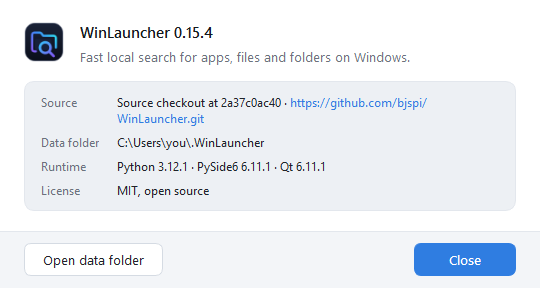
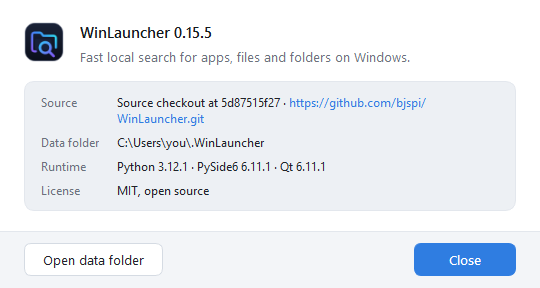
Release 0.15.5: add branded Rust host and Start-menu integration

Changed region(s): [[0.3852, 0.3438, 0.8, 0.375], [0.3556, 0.0938, 0.4148, 0.125]]

diff --git a/winlauncher/platform/startup.py b/winlauncher/platform/startup.py
@@ -1,4 +1,4 @@
-"""Manage WinLauncher's per-user Windows Startup shortcut.
+"""Manage WinLauncher's per-user Windows Startup and Start-menu shortcuts.
 
 The shortcut file itself is the source of truth. WinLauncher only ever changes a
 shortcut it recognizes as its own and refuses to touch an unrelated one.
@@ -29,6 +29,7 @@ from winlauncher.platform.shortcuts import load_shortcut, write_target_shortcut
 
 SHORTCUT_NAME = "WinLauncher.lnk"
 SHORTCUT_DESCRIPTION = "WinLauncher startup shortcut"
+START_MENU_DESCRIPTION = "WinLauncher application shortcut"
 MODULE_ARGUMENTS = ("-m", "winlauncher", "--background")
 
 _Result = TypeVar("_Result")
@@ -120,32 +121,57 @@ class StartupShortcut:
         return ShortcutState.OWNED if shortcut.owned else ShortcutState.UNRELATED
 
     def _write_shortcut(self, shortcut: _Shortcut | None = None) -> None:
-        """Save into a private temporary folder, then atomically replace the shortcut."""
-        path = self.path
-        path.parent.mkdir(parents=True, exist_ok=True)
-        with tempfile.TemporaryDirectory(prefix="winlauncher-", dir=path.parent) as folder:
-            temporary = Path(folder) / path.name
-            _with_shortcut(lambda: self._save_shortcut(temporary, shortcut))
-            os.replace(temporary, path)
-
-    def _save_shortcut(self, target: Path, saved: _Shortcut | None) -> None:
-        if saved is None:
+        if shortcut is None:
             command = self._launch_command()
-            saved = _Shortcut(
+            shortcut = _Shortcut(
                 command[0],
                 subprocess.list2cmdline(command[1:]),
                 SHORTCUT_DESCRIPTION,
                 str(PACKAGE_PARENT),
                 (command[0], 0),
             )
-        write_target_shortcut(
-            target,
-            saved.target,
-            saved.arguments,
-            icon=saved.icon,
-            description=saved.description,
-            working_directory=saved.directory,
-        )
+        _write_shortcut(self.path, shortcut)
+
+
+def install_start_menu_shortcut(host: Path) -> None:
+    """Keep a searchable launch command even when automatic startup is disabled."""
+    path = _user_programs_folder() / SHORTCUT_NAME
+    shortcut = _Shortcut(
+        str(host), "--show", START_MENU_DESCRIPTION, str(PACKAGE_PARENT), (str(host), 0)
+    )
+    if path.exists():
+        current = _with_shortcut(lambda: _read_shortcut(path))
+        if current.description != START_MENU_DESCRIPTION or Path(current.target) != host:
+            raise OSError(f"Refusing to change an unrelated shortcut: {path}")
+        if current == shortcut:
+            return
+    _write_shortcut(path, shortcut)
+
+
+def _write_shortcut(path: Path, shortcut: _Shortcut) -> None:
+    """Save privately, then atomically replace the shortcut; failures keep the original."""
+    path.parent.mkdir(parents=True, exist_ok=True)
+    with tempfile.TemporaryDirectory(prefix="winlauncher-", dir=path.parent) as folder:
+        temporary = Path(folder) / path.name
+        _with_shortcut(lambda: _save_shortcut(temporary, shortcut))
+        os.replace(temporary, path)
+
+
+def _save_shortcut(target: Path, shortcut: _Shortcut) -> None:
+    write_target_shortcut(
+        target,
+        shortcut.target,
+        shortcut.arguments,
+        icon=shortcut.icon,
+        description=shortcut.description,
+        working_directory=shortcut.directory,
+    )
+
+
+def _user_programs_folder() -> Path:
+    from win32comext.shell import shell, shellcon
+
+    return Path(shell.SHGetKnownFolderPath(shellcon.FOLDERID_Programs))
 
 
 def _user_startup_folder() -> Path:
@@ -182,6 +208,6 @@ def _call_shortcut(action: Callable[[], _Result]) -> _Result:
     try:
         return action()
     except pywintypes.com_error as exc:
-        message = f"Windows could not access the Startup shortcut: {exc.strerror}"
+        message = f"Windows could not access the shortcut: {exc.strerror}"
     # Raised outside the except block, so no traceback keeps COM objects alive.
     raise OSError(message)

diff --git a/tests/test_loader.py b/tests/test_loader.py
@@ -4,6 +4,7 @@ from __future__ import annotations
 
 import json
 import os
+import struct
 import subprocess
 import sys
 import tempfile
@@ -167,6 +168,7 @@ class LoaderTest(unittest.TestCase):
 
     def test_executable_has_stable_winlauncher_metadata_and_icon(self):
         import win32api
+        from PySide6.QtGui import QImage
 
         path = str(launcher.TEMPLATE.resolve())
         version = win32api.GetFileVersionInfo(path, "\\StringFileInfo\\040904b0\\FileDescription")
@@ -176,7 +178,21 @@ class LoaderTest(unittest.TestCase):
         )
         module = win32api.LoadLibraryEx(path, 0, launcher.LOAD_LIBRARY_AS_DATAFILE)
         try:
-            self.assertTrue(win32api.EnumResourceNames(module, 14))
+            groups = win32api.EnumResourceNames(module, 14)
+            self.assertEqual(len(groups), 1)
+            group = win32api.LoadResource(module, 14, groups[0])
+            sizes = set()
+            for offset in range(6, len(group), 14):
+                width, height, _, _, _, _, _, resource = struct.unpack_from(
+                    "<BBBBHHIH", group, offset
+                )
+                dimensions = (width or 256, height or 256)
+                sizes.add(dimensions)
+                image = QImage.fromData(win32api.LoadResource(module, 3, resource))
+                self.assertEqual((image.width(), image.height()), dimensions)
+            self.assertEqual(
+                sizes, {(size, size) for size in (16, 20, 24, 32, 40, 48, 64, 96, 128, 256)}
+            )
         finally:
             win32api.FreeLibrary(module)
 
@@ -278,6 +294,7 @@ class LoaderMigrationTest(unittest.TestCase):
                 state = Path(os.environ["LOADER_TEST_STATE"])
                 launcher._add_to_user_path = lambda folder: (state / "path-updated").touch()
                 startup._user_startup_folder = lambda: state / "startup"
+                startup._user_programs_folder = lambda: state / "programs"
                 code = "import json,sys; from pathlib import Path; Path(sys.argv[1]).write_text(json.dumps({'python':sys.executable}))"
                 install.reinstall_arguments = lambda: ["-c", code, str(state / "update.json")]
                 original = LauncherController.__init__
@@ -353,6 +370,10 @@ class LoaderMigrationTest(unittest.TestCase):
                         '"' + str(folder / "custom autostart data") + '"', link.GetArguments()
                     )
                     self.assertNotIn("-m winlauncher", link.GetArguments())
+                    del link
+                    link = load_shortcut(folder / "programs" / "WinLauncher.lnk")
+                    self.assertEqual(Path(link.GetPath(0)[0]), command_bin / launcher.HOST_NAME)
+                    self.assertEqual(link.GetArguments(), "--show")
                     del link
                 finally:
                     pythoncom.CoUninitialize()

diff --git a/tests/test_autostart.py b/tests/test_autostart.py
@@ -10,7 +10,7 @@ import unittest
 from pathlib import Path
 from unittest.mock import patch
 
-from winlauncher.platform import launcher
+from winlauncher.platform import launcher, startup
 from winlauncher.platform.shortcuts import load_shortcut, write_target_shortcut
 from winlauncher.platform.startup import SHORTCUT_DESCRIPTION, StartupShortcut
 
@@ -144,6 +144,48 @@ class AutostartTest(unittest.TestCase):
                 self.startup.migrate()
                 self.assertFalse(self.startup.is_enabled())
                 self.assertEqual(self.startup.path.read_bytes(), before)
+
+    def test_start_menu_shortcut_opens_search_and_survives_disabling_autostart(self):
+        host = self.folder / "winlauncher.exe"
+        programs = self.folder / "programs"
+        with patch.object(startup, "_user_programs_folder", return_value=programs):
+            startup.install_start_menu_shortcut(host)
+            path = programs / startup.SHORTCUT_NAME
+            link = load_shortcut(path)
+            self.assertEqual(Path(link.GetPath(0)[0]), host)
+            self.assertEqual(link.GetArguments(), "--show")
+            self.assertEqual(link.GetIconLocation(), (str(host), 0))
+            del link
+            modified = path.stat().st_mtime_ns
+            startup.install_start_menu_shortcut(host)
+            self.assertEqual(path.stat().st_mtime_ns, modified)
+            self.assertFalse(self.startup.is_enabled())
+            self.startup.set_enabled(True)
+            self.startup.set_enabled(False)
+            self.assertTrue(path.exists())
+
+    def test_start_menu_shortcut_preserves_foreign_unreadable_and_failed_saves(self):
+        import pywintypes
+
+        host = self.folder / "winlauncher.exe"
+        path = self.folder / startup.SHORTCUT_NAME
+        with patch.object(startup, "_user_programs_folder", return_value=self.folder):
+            write_target_shortcut(path, sys.executable, description=startup.START_MENU_DESCRIPTION)
+            for content in (path.read_bytes(), b"Not a Windows shortcut"):
+                path.write_bytes(content)
+                with self.assertRaises(OSError):
+                    startup.install_start_menu_shortcut(host)
+                self.assertEqual(path.read_bytes(), content)
+            write_target_shortcut(path, str(host), description=startup.START_MENU_DESCRIPTION)
+            before = path.read_bytes()
+            with patch(
+                "winlauncher.platform.shortcuts._save",
+                side_effect=pywintypes.com_error(-2147467259, "Save failed", None, None),
+            ):
+                with self.assertRaisesRegex(OSError, "Save failed"):
+                    startup.install_start_menu_shortcut(host)
+            self.assertEqual(path.read_bytes(), before)
+            self.assertEqual(list(self.folder.iterdir()), [path])
 
 
 if __name__ == "__main__":

diff --git a/tools/build_loader.py b/tools/build_loader.py
@@ -27,6 +27,7 @@ SOURCES = (
     "tools/build_loader.py",
     "docs/images/icon.png",
 )
+ICON_SIZES = (16, 20, 24, 32, 40, 48, 64, 96, 128, 256)
 
 
 def source_hash() -> str:
@@ -63,6 +64,38 @@ def resource_compiler() -> Path:
     return max(candidates, key=lambda path: tuple(map(int, path.parents[1].name.split("."))))
 
 
+def write_icon(path: Path) -> None:
+    """Give Windows native sizes instead of relying on its icon resampling."""
+    from PySide6.QtCore import QBuffer, QIODevice, Qt
+    from PySide6.QtGui import QImage
+
+    source = QImage(str(ROOT / "docs/images/icon.png"))
+    if source.isNull() or source.width() < max(ICON_SIZES) or source.height() < max(ICON_SIZES):
+        raise ValueError("The host icon must be at least 256 by 256 pixels.")
+    entries = bytearray()
+    images = bytearray()
+    offset = 6 + 16 * len(ICON_SIZES)
+    for size in ICON_SIZES:
+        buffer = QBuffer()
+        buffer.open(QIODevice.OpenModeFlag.WriteOnly)
+        scaled = source.scaled(
+            size,
+            size,
+            Qt.AspectRatioMode.IgnoreAspectRatio,
+            Qt.TransformationMode.SmoothTransformation,
+        )
+        if not scaled.save(buffer, "PNG"):
+            raise OSError(f"Cannot encode the {size}px host icon.")
+        png = bytes(buffer.data())
+        dimension = size if size < 256 else 0
+        entries.extend(
+            struct.pack("<BBBBHHII", dimension, dimension, 0, 0, 1, 32, len(png), offset)
+        )
+        images.extend(png)
+        offset += len(png)
+    path.write_bytes(struct.pack("<HHH", 0, 1, len(ICON_SIZES)) + entries + images)
+
+
 def build() -> None:
     """Compile the resource and dependency-free Rust host without local build paths."""
     staging = LOADER / "target" / "resources"
@@ -70,11 +103,7 @@ def build() -> None:
     marker = LOADER / "target" / ".nobackup"
     if not marker.exists():
         marker.touch()
-    png = (ROOT / "docs/images/icon.png").read_bytes()
-    # An ICO may contain a PNG directly; the existing 256px app icon needs no conversion.
-    header = struct.pack("<HHH", 0, 1, 1)
-    entry = struct.pack("<BBBBHHII", 0, 0, 0, 0, 1, 32, len(png), 22)
-    (staging / "winlauncher.ico").write_bytes(header + entry + png)
+    write_icon(staging / "winlauncher.ico")
     # Cargo does not track linker-input contents; a changed name forces relinking.
     resource = staging / f"winlauncher-{source_hash()[:16]}.res"
     subprocess.run(

diff --git a/winlauncher/__main__.py b/winlauncher/__main__.py
@@ -38,7 +38,7 @@ from winlauncher.platform.launcher import (
     install_launcher,
     running_in_host,
 )
-from winlauncher.platform.startup import StartupShortcut
+from winlauncher.platform.startup import StartupShortcut, install_start_menu_shortcut
 from winlauncher.settings import Appearance
 from winlauncher.ui.controller import LauncherController
 from winlauncher.ui.messages import ERROR, PRIMARY, WARNING, message, show_message
@@ -237,11 +237,15 @@ def _serve_show_requests(server: QLocalServer, controller: LauncherController) -
 
 
 def _migrate_launcher(data_dir: Path) -> bool:
-    """Repair PATH/autostart, then hand a legacy Python start to the branded host."""
+    """Repair PATH and shortcuts, then hand a legacy Python start to the branded host."""
     try:
         host = install_launcher()
         if host is None:
             return False
+        try:
+            install_start_menu_shortcut(host)
+        except OSError:
+            logging.exception("Could not install the Start-menu shortcut; keeping the original")
         try:
             StartupShortcut(data_dir).migrate()
         except OSError:

diff --git a/winlauncher/__init__.py b/winlauncher/__init__.py
@@ -1,3 +1,3 @@
 """WinLauncher: an independent, local Windows launcher."""
 
-__version__ = "0.15.4"
+__version__ = "0.15.5"

diff --git a/README.md b/README.md
@@ -78,14 +78,15 @@ Explorer & dialogs**.
 a `winlauncher` command that starts without a console window:
 
 ```powershell
-pipx install "winlauncher[rust] @ git+https://github.com/bjspi/WinLauncher.git@v0.15.4"
+pipx install "winlauncher[rust] @ git+https://github.com/bjspi/WinLauncher.git@v0.15.5"
 winlauncher --show
 ```
 
 On Windows x64, the first start installs a small WinLauncher EXE with its own
-name and icon in `~/.local/bin`, migrates an existing WinLauncher autostart shortcut,
+name and icon in `~/.local/bin`, adds a Start-menu shortcut, migrates an existing WinLauncher autostart shortcut,
 and uses it for future starts and restarts. Python stays in its existing environment;
 no Rust compiler is needed. Windows may ask you to show the new tray entry once.
+Press the Windows key and search for WinLauncher to open it, even with autostart disabled.
 
 The `[rust]` extra downloads the matching Rust search engine wheel from the
 GitHub release — no compiler needed. When a new release is out, WinLauncher says

diff --git a/docs/specification.md b/docs/specification.md
@@ -707,6 +707,12 @@ Python package tools continue using the real interpreter. A host setup failure i
 logged and falls back to Python. Windows may require enabling the new tray entry
 once because its executable path changed.
 
+Host setup also installs `WinLauncher.lnk` in the current user's Start-menu
+Programs folder. It uses the host's icon and `--show`, so Windows-key search opens
+the launcher or shows an already running instance. This shortcut remains when
+autostart is disabled. Unchanged links are not rewritten; unrelated or unreadable
+links are preserved, and failed saves leave the original intact.
+
 The tray menu offers Search, Refresh catalog, Settings, Start with Windows, Index
 status, Clear search history, Check for updates, About, Restart and Quit. A single
 click opens the launcher. Restart starts a replacement process that waits for the

diff --git a/docs/architecture.md b/docs/architecture.md
@@ -103,7 +103,9 @@ pip and Python subprocesses use that interpreter. Application starts use
 parsing, and Python's exit code becomes the process exit code.
 
 The elected instance finishes a pending update, installs or refreshes the host,
-migrates an owned Startup shortcut, and hands a legacy Python start to the host.
+installs the Start-menu shortcut through `platform/startup.py`, migrates an owned
+Startup shortcut, and hands a legacy Python start to the host. The Start-menu link
+uses `--show` and remains available when automatic startup is disabled.
 The replacement waits for the same data-directory lock. Migration preserves the
 shortcut's original arguments and custom data directory, never enables absent
 autostart, and never replaces an unrelated command or shortcut. Updating a running

diff --git a/docs/development.md b/docs/development.md
@@ -52,6 +52,8 @@ fingerprint covers the host sources/build instructions/icon, normalizes text lin
 endings, and checks the binary digest. CI checks freshness and tests Rust and the
 actual host on Python 3.11–3.14; packaging reuses the template instead of recompiling
 it for every app release. The binary has no third-party Rust dependencies.
+The build uses the installed PySide6 to embed smoothly scaled icon images from
+16 to 256 pixels, including common Windows display-scaling sizes.
 
 Runtime setup configures a copy at `~/.local/bin/winlauncher.exe`; it records the
 interpreter, DLL and package paths as Windows resources. The actual host's image
